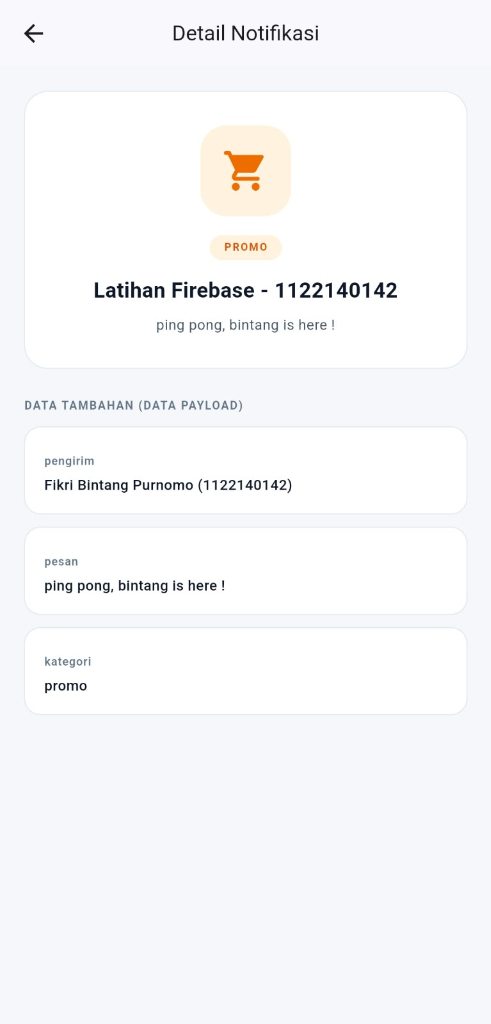
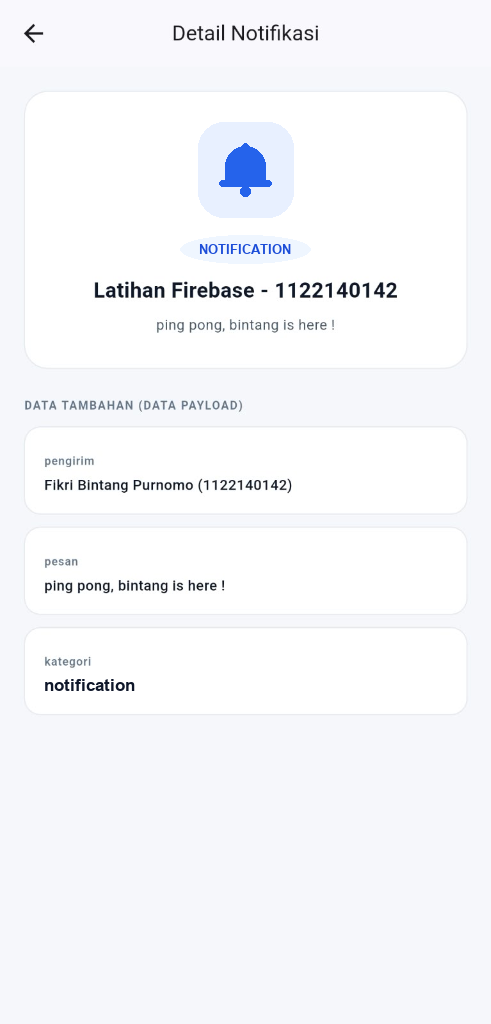
fix

Changed region(s): [[0.3971, 0.125, 0.611, 0.2812], [0.0916, 0.6562, 0.2749, 0.6875]]

diff --git a/lib/notification_detail_screen.dart b/lib/notification_detail_screen.dart
@@ -12,9 +12,6 @@ class NotificationDetailScreen extends StatelessWidget {
       ..remove('title')
       ..remove('body');
 
-    final kategori = data['kategori']?.toString().toLowerCase();
-    final isPromo = kategori == 'promo';
-
     return Scaffold(
       backgroundColor: const Color(0xFFF6F7FB),
       appBar: AppBar(
@@ -38,48 +35,36 @@ class NotificationDetailScreen extends StatelessWidget {
                   width: 76,
                   height: 76,
                   decoration: BoxDecoration(
-                    color: isPromo
-                        ? const Color(0xFFFFF3E0)
-                        : const Color(0xFFE8F0FF),
+                    color: const Color(0xFFE8F0FF),
                     borderRadius: BorderRadius.circular(22),
                   ),
-                  child: Icon(
-                    isPromo
-                        ? Icons.shopping_cart_rounded
-                        : Icons.notifications_active_rounded,
+                  child: const Icon(
+                    Icons.notifications_active_rounded,
                     size: 40,
-                    color: isPromo
-                        ? const Color(0xFFEF6C00)
-                        : const Color(0xFF2563EB),
+                    color: Color(0xFF2563EB),
                   ),
                 ),
                 const SizedBox(height: 16),
-                if (kategori != null && kategori.isNotEmpty) ...[
-                  Container(
-                    padding: const EdgeInsets.symmetric(
-                      horizontal: 12,
-                      vertical: 4,
-                    ),
-                    decoration: BoxDecoration(
-                      color: isPromo
-                          ? const Color(0xFFFFF3E0)
-                          : const Color(0xFFEFF4FF),
-                      borderRadius: BorderRadius.circular(999),
-                    ),
-                    child: Text(
-                      kategori.toUpperCase(),
-                      style: TextStyle(
-                        fontSize: 11,
-                        fontWeight: FontWeight.w700,
-                        letterSpacing: 1.1,
-                        color: isPromo
-                            ? const Color(0xFFE65100)
-                            : const Color(0xFF1D4ED8),
-                      ),
+                Container(
+                  padding: const EdgeInsets.symmetric(
+                    horizontal: 12,
+                    vertical: 4,
+                  ),
+                  decoration: BoxDecoration(
+                    color: const Color(0xFFEFF6FF),
+                    borderRadius: BorderRadius.circular(999),
+                  ),
+                  child: const Text(
+                    'NOTIFICATION',
+                    style: TextStyle(
+                      fontSize: 11,
+                      fontWeight: FontWeight.w700,
+                      letterSpacing: 1.1,
+                      color: Color(0xFF1D4ED8),
                     ),
                   ),
-                  const SizedBox(height: 12),
-                ],
+                ),
+                const SizedBox(height: 12),
                 Text(
                   data['title']?.toString() ?? '-',
                   style: const TextStyle(
